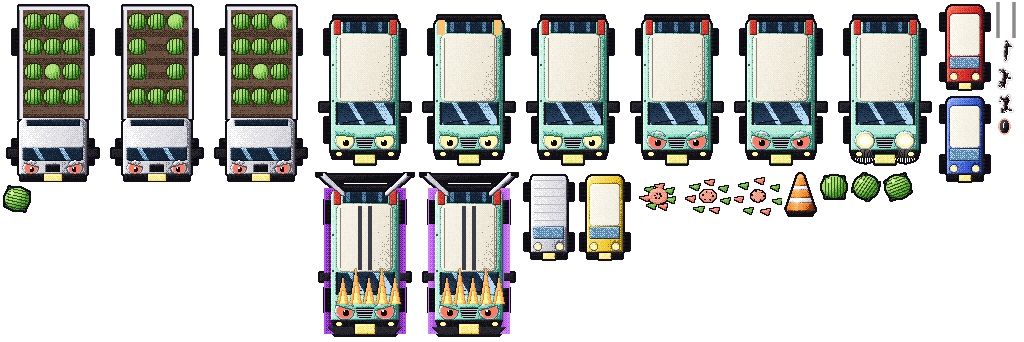
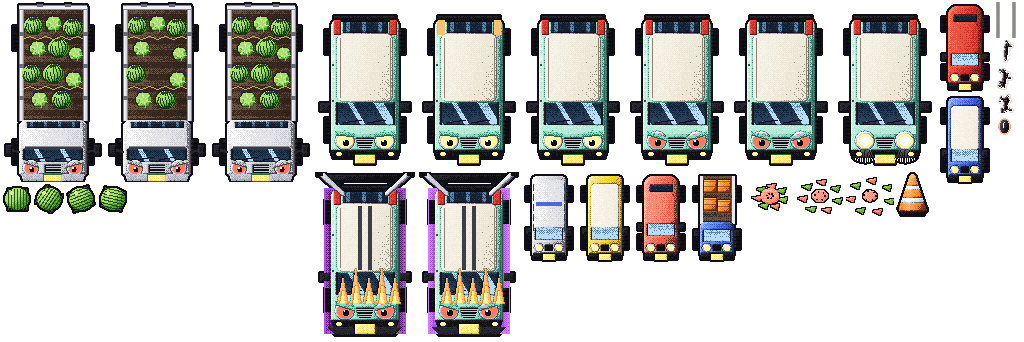
Kei car: better traffic and truck, a quick return after the drift
The rush hour's cars are redrawn in the kei car's style and in kinds:
a rounded sedan, the tall wagon with its cream roof, a white delivery
van with windows down its sides, a little truck with crates. The kei
truck gets a visor over its windscreen, mirrors on stalks, hinged drop
sides, and a load of striped watermelons and leafy cabbages under a
straw rope. After a drift the car drove back up at 30 px/s (about 11 s
from the bottom); it now reverses up in about a second.

Claude-Session: https://claude.ai/code/session_01E8RiXzN38YCkqHQEXSMryW

Changed region(s): [[0.0, 0.0, 0.3125, 0.6433], [0.5, 0.2924, 0.9688, 0.7895], [0.9062, 0.0292, 0.9688, 0.2632]]

diff --git a/src/game/enemies/keicar.js b/src/game/enemies/keicar.js
@@ -169,7 +169,10 @@ export const keicar = {
         else Object.assign(a, { phase: 'back', t: 0 });
       }
     } else {
-      e.y += Math.max(30, (KEI.home - e.y) * 2) * dt * (e.y > KEI.home + 2 ? -1 : 1);
+      // back to its row, as briskly from below (reversing up after a drift) as from above (in from the top)
+      const d = KEI.home - e.y;
+      e.y += Math.sign(d) * Math.min(Math.abs(d), Math.max(90, Math.abs(d) * 2.6) * dt);
+      if (d < 0) this.keiExhaust(g, dt, 1.5);
       e.x = g.x;
       e.setRotation(Phaser.Math.Angle.RotateTo(e.rotation, 0, dt * 5));
       if (Math.abs(e.y - KEI.home) < 2) this.keiDone(g, 0.7);
@@ -346,7 +349,7 @@ export const keicar = {
         if ((L.next -= dt) <= 0) {
           L.left--;
           L.next = (KEI.gap + Math.random() * 18) / L.sp;
-          const frame = ['mini_r', 'mini_b', 'mini_w', 'mini_y'][Math.floor(Math.random() * 4)];
+          const frame = ['mini_r', 'mini_b', 'mini_w', 'mini_y', 'mini_p', 'mini_t'][Math.floor(Math.random() * 6)];
           if (g.body.texture.has(frame)) {
             const spr = this.segPool.spawn(frame, L.dir > 0 ? -24 : VIEW.width + 24, L.y).setDepth(DEPTH.air - 0.15).setRotation(L.dir > 0 ? -DOWN : DOWN);
             g.traffic.push({ spr, vx: L.dir * L.sp });
